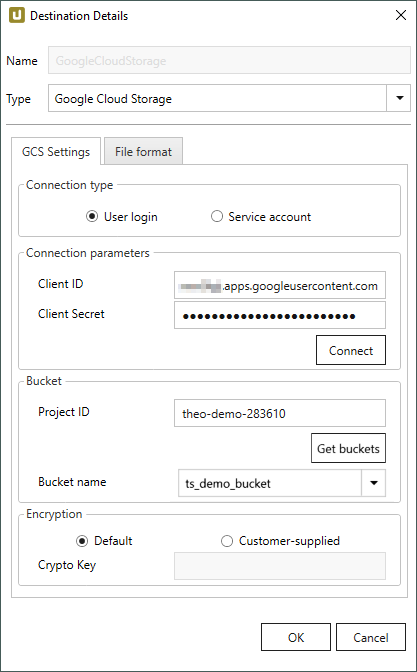
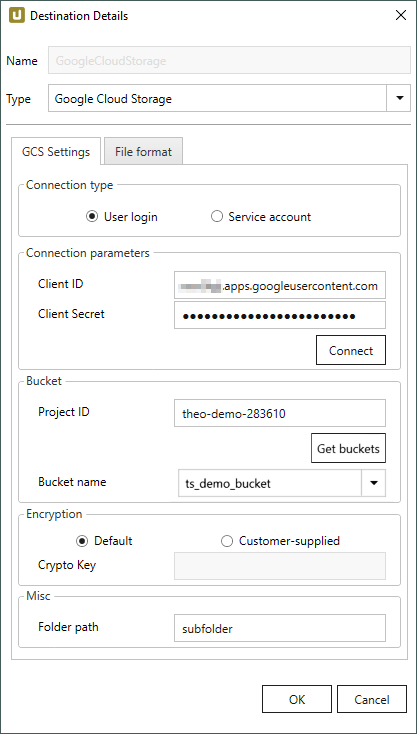
xu google cloud destination update

diff --git a/projects/xtract-universal/docs/documentation/destinations/google-cloud-storage.md b/projects/xtract-universal/docs/documentation/destinations/google-cloud-storage.md
@@ -3,6 +3,7 @@ title: Google Cloud Storage
 description: Write SAP data to a Google Cloud Storage destination
 destination: google
 attempt: eight
+location: bucket
 ---
 
 This page shows how to set up and use the {{ page.meta.title }} destination. 
@@ -121,6 +122,11 @@ The Crypto key is not stored in the GCP and demands the additional effort to be 
 #### Crypto key
 If *Customer Supplied* is selected as the encryption method, enter the cryptographic key into.
 
+### Misc
+
+{% include "destinations/cloud-folder-path.md" %}
+
+
 ### File Format
 
 Select the required file format. You can choose between *CSV*, *JSON* and *Parquet*.
@@ -147,13 +153,9 @@ The settings for file type *Parquet* correspond to the settings of the *Flat Fil
 
 ## Connection Retry
 
-Connection retry is a built-in function of the Google Cloud Storage destination. 
-The retry function is activated by default.
+{% include "destinations/connection-retry.md" %}
 
-Connection retry is a functionality that prevents extractions from failing in case of transient connection interruptions to Google Cloud Storage.
-Xtract universal follows an exponential retry strategy. The selected exponential strategy results in eight retry attempts and an overall timespan of 140 seconds. If a connection is not established during the timespan of 140 seconds, the extraction fails.
-
-For more general information about retry strategies in a Google Cloud Storage environment go to the official [Google Cloud Help](https://cloud.google.com/storage/docs/gsutil/addlhelp/RetryHandlingStrategy).
+{% include "destinations/connection-retry-cloud.md" %}
 
 {% include "destinations/assign-destination.md" %}
 
@@ -171,15 +173,13 @@ For more general information about retry strategies in a Google Cloud Storage en
 
 {% include "destinations/date-conversion.md" %}
 
-### Folder name
-
-To write extraction data to a location within a specific folder in a Google Cloud Storage bucket, enter a folder name without slashes.
-Subfolders are supported and can be defined using the following syntax: <br>
-`[folder]/[subfolder_1]/[subfolder_2]/…`
+{% include "destinations/cloud-folder.md" %}
 
 {% include "parameters/folder-script-expressions.md" %}
 
 {% include "destinations/compression.md" %}
 
 {% include "destinations/file-splitting.md" %}
+
+{% include "destinations/empty-files.md" %}
 

diff --git a/projects/xtract-universal/docs/documentation/destinations/azure-storage.md b/projects/xtract-universal/docs/documentation/destinations/azure-storage.md
@@ -3,6 +3,7 @@ title: Microsoft Azure Storage
 description: Write SAP data to an Azure Storage destination
 destination: azure
 attempt: seven
+location: container
 ---
 
 This page shows how to set up and use the {{ page.meta.title }} destination. 
@@ -206,12 +207,7 @@ The *Azure Storage (Blob / Data Lake)* destination can now be used.
 !!! note 
 	The settings in *Misc* can only be used in combination with a Blob container.<br> 
 
-#### Folder path
-Option to create a folder structure within the container for saving files.
-Script expressions are supported, see [**Destination Settings > Folder**](#folder).
-
-For creating a single folder, enter a folder name without slashes: `[folder]` <br>
-Subfolders are supported and can be defined using the following syntax: `[folder]/[subfolder_1]/[subfolder_2]/[..]`
+{% include "destinations/cloud-folder-path.md" %}
 
 
 ### File Format
@@ -279,11 +275,7 @@ Creates a [Block Blob](https://docs.microsoft.com/en-us/rest/api/storageservices
 !!! note
 	For both file types an MD5 hash is created upon upload to Azure storage.
 
-### Folder
-Option to create a folder structure within the container for saving files, see [**Destination Details > Folder Path**](#folder-path). <br>
-
-For creating a single folder, enter a folder name without slashes: `[folder]` <br>
-Subfolders are supported and can be defined using the following syntax: `[folder]/[subfolder_1]/[subfolder_2]/[..]`
+{% include "destinations/cloud-folder.md" %}
 
 {% include "parameters/folder-script-expressions.md" %}
 

diff --git a/projects/xtract-universal/docs/documentation/destinations/huawei.md b/projects/xtract-universal/docs/documentation/destinations/huawei.md
@@ -4,6 +4,7 @@ description: Write SAP data to a Huawei Cloud OBS destination
 destination: huawei
 status: beta
 attempt: seven
+location: bucket
 ---
 
 This page shows how to set up and use the {{ page.meta.title }} destination. 
@@ -44,12 +45,7 @@ Click **[:designer-refresh:]** to refresh the list of available buckets.
 
 ### Misc
 
-#### Folder path
-Option to create a folder structure within the container for saving files.
-Script expressions are supported, see [**Destination Settings > Folder**](#folder).
-
-For creating a single folder, enter a folder name without slashes: `[folder]` <br>
-Subfolders are supported and can be defined using the following syntax: `[folder]/[subfolder_1]/[subfolder_2]/[..]`
+{% include "destinations/cloud-folder-path.md" %}
 
 ### File Format
 
@@ -96,12 +92,7 @@ In those cases Xtract Universal tries to remove any files from the Huawei Cloud 
 
 {% include "destinations/date-conversion.md" %}
 
-### Folder
-
-Option to create a folder structure within the container for saving files, see [Destination Details > Folder Path](#folder-path).
-
-For creating a single folder, enter a folder name without slashes: `[folder]` <br>
-Subfolders are supported and can be defined using the following syntax: `[folder]/[subfolder_1]/[subfolder_2]/[..]`
+{% include "destinations/cloud-folder.md" %}
 
 {% include "parameters/folder-script-expressions.md" %}
 

diff --git a/includes/destinations/assign-destination.md b/includes/destinations/assign-destination.md
@@ -6,7 +6,7 @@ Extractions write data to their assigned destination. Follow the steps below to 
 1. In the main window of the Designer, select an extraction.
 2. Click **[:designer-destination:Destination]**. The window “Destination Settings” opens.<br>
 ![xu_designer_destination](../../assets/images/documentation/destinations/xu_designer_destination.png){:class="img-responsive"}
-3. In the “Destination Settings” window, select a destination from the drop down menu.<br>
+3. In the “Destination Settings” window, select a destination from the dropdown list.<br>
 ![assign-destination](../../assets/images/documentation/destinations/assign-destination.png){:class="img-responsive"}
 4. Optional: edit the [destination settings](#destination-settings).
 5. Click **[OK]** to confirm your input.
@@ -15,6 +15,6 @@ When running the extraction, the extracted SAP data is now written to the destin
 
 ### Destination Settings
 
-The destination settings only affect the extraction type that the destination is assigned to.
+The destination settings only affect the extraction that the destination is assigned to.
 To open the destination settings, select an extraction in the main window of the Designer and click **[:designer-destination:Destination]**.
 The window "Destination Settings" opens.

diff --git a/projects/xtract-universal/docs/documentation/destinations/amazon-aws-s3.md b/projects/xtract-universal/docs/documentation/destinations/amazon-aws-s3.md
@@ -2,6 +2,7 @@
 title: Amazon S3
 description: Write SAP data to an Amazon S3 destination
 attempt: seven
+location: bucket
 ---
 
 This page shows how to set up and use the {{ page.meta.title }} destination. 
@@ -111,8 +112,8 @@ The key can be created on the [AWS website](https://console.aws.amazon.com/iam/h
 
 All settings in *Misc* are optional.
 
-#### Folder Path
-Enter the directory to upload files into, see [**Destination Settings > Folder name**](#folder-name).
+{% include "destinations/cloud-folder-path.md" %}
+
 
 #### File Owner
 If you upload files as an AWS user of an Account A to an Account B, you can select the option "Bucket Owner".
@@ -165,11 +166,7 @@ For more general information about retry strategies in an AWS S3 environment go 
 
 {% include "destinations/date-conversion.md" %}
 
-### Folder name
-
-To write extraction data to a location within a specific folder in an Amazon S3 bucket, enter a folder name without slashes.
-Subfolders are supported and can be defined using the following syntax: <br>
-`[folder]/[subfolder_1]/[subfolder_2]/…`
+{% include "destinations/cloud-folder.md" %}
 
 {% include "parameters/folder-script-expressions.md" %}
 

diff --git a/includes/destinations/cloud-folder-path.md b/includes/destinations/cloud-folder-path.md
@@ -1,0 +1,14 @@
+
+#### Folder path
+
+Creates a folder structure within the {{ page.meta.location }}.
+Script expressions are supported, see [Use Script Expressions as Dynamic Folder Paths](#use-script-expressions-as-dynamic-folder-paths).
+
+- Create a single folder by entering a folder name without slashes: `[folder]` <br>
+- Create subfolders using the following syntax: `[folder]/[subfolder_1]/[subfolder_2]/[..]`
+
+!!! note
+	The specified folder path applies to all extractions. 
+	To define a folder path for single extractions, use the **Folder** option in the [Destination Settings](#destination-settings).
+
+

diff --git a/includes/destinations/cloud-folder.md b/includes/destinations/cloud-folder.md
@@ -1,0 +1,12 @@
+
+### Folder
+
+Writes the extracted data to a specific folder structure within the {{ page.meta.location }}.
+If the specified folder does not exist, it is created.
+
+- Create a single folder by entering a folder name without slashes: `[folder]` <br>
+- Create subfolders using the following syntax: `[folder]/[subfolder_1]/[subfolder_2]/[..]`
+
+!!! note
+	The specified folder path only applies to the selected extraction. 
+	To define a folder path for all extractions, use the **Folder path** option in the [Destination Details](#destination-details).
